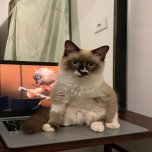
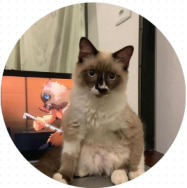
paulo-border-radius

diff --git a/README.md b/README.md
@@ -49,7 +49,7 @@ Excercício de HTML e CSS do FrontEnd Mentor - huddle page - realizado para a QU
 
 Contribuição: Código
 
-- [@CariokacomK] (https://github.com/CariokacomK)
+- [@CariokacomK](https://github.com/CariokacomK)
 
 <br>
 
@@ -57,5 +57,5 @@ Contribuição: Fofura e Tecladas aleatorias durante o código:
 
 - Paulo
 
-<img src="./src/images/paulo.png" style="border-radius:50%;" width = "40%">
+<img src="./src/images/paulo.png">
 
